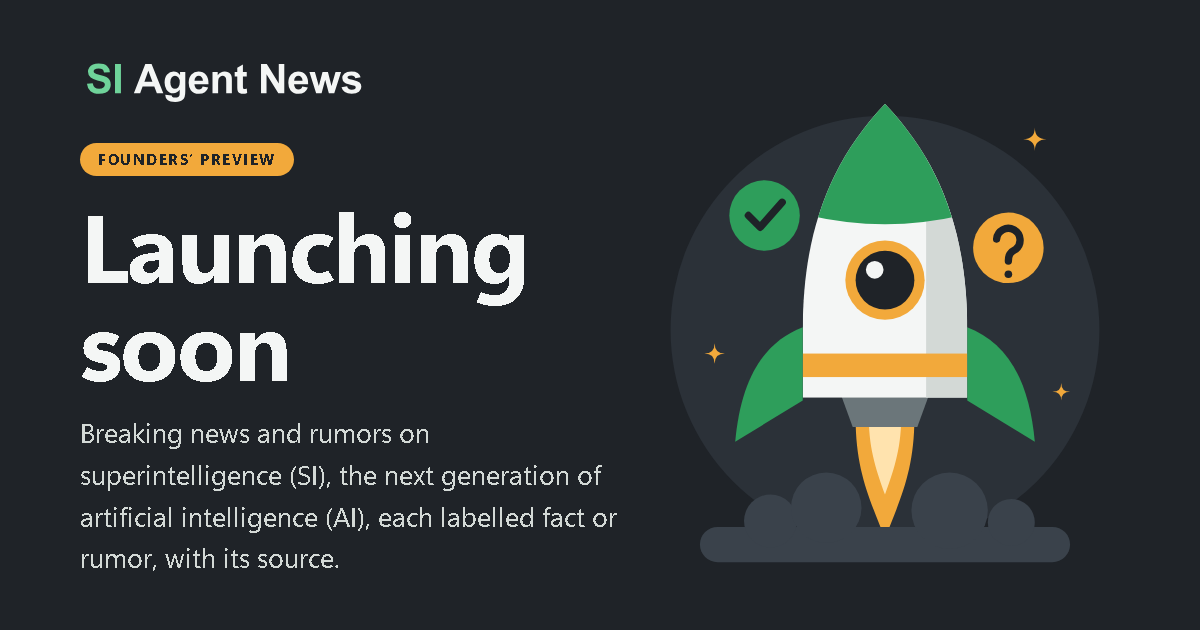
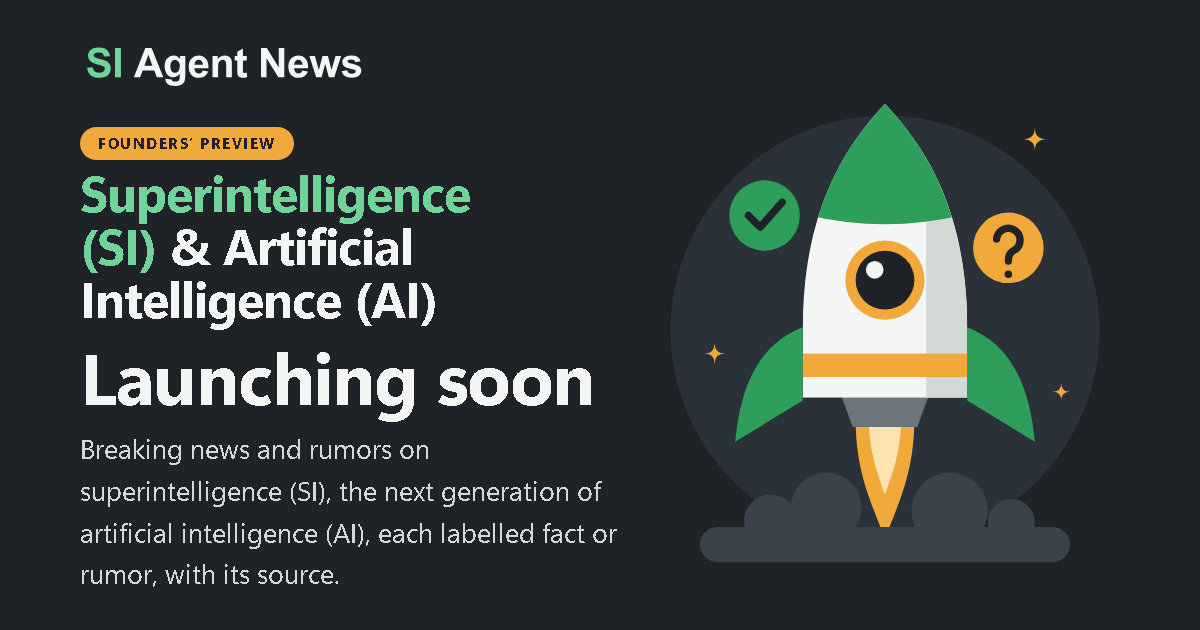
Superintelligence (SI) & Artificial Intelligence (AI) big, bold, front and center (his 10-03 18:59)

Changed region(s): [[0.0617, 0.0603, 0.5242, 0.9349]]

diff --git a/index.html b/index.html
@@ -33,6 +33,7 @@
          (same file name), or drop in a PNG/SVG and change src, width and height here. See README.md. -->
     <a class="brand" href="/" aria-label="SI Agent News, home"><img class="logo" id="logo" src="assets/logo.svg" width="182" height="38" alt="SI Agent News"></a>
   </header>
+  <p class="terms"><span class="t-si">Superintelligence (SI)</span> <span class="t-amp">&amp;</span> <span class="t-ai">Artificial Intelligence (AI)</span></p>
   <main id="main">
     <div class="stage">
 <svg class="rocket" viewBox="0 0 320 360" aria-hidden="true" focusable="false">
@@ -61,8 +62,6 @@
     </div>
     <div class="copy">
       <p class="pill">Founders&rsquo; Preview</p>
-      <p class="topic">Superintelligence (SI) &middot; Artificial Intelligence (AI)</p>
-
       <h1><span class="sr">SI Agent News: </span>Launching soon</h1>
       <p class="lead">Breaking news and rumors on superintelligence (SI), the next generation of artificial intelligence (AI), each labelled fact or rumor, with its source.</p>
       <form class="join" id="join" novalidate>

diff --git a/assets/style.css b/assets/style.css
@@ -77,4 +77,8 @@ footer{padding-top:24px;text-align:center;font-size:.875rem;color:var(--muted)}
   footer{text-align:left}
 }
 
-.topic{margin:.2rem 0 .4rem;font-weight:700;font-size:clamp(1.05rem,2.6vw,1.35rem);letter-spacing:.01em;line-height:1.35}
+.terms{margin:16px auto 2px;max-width:24ch;text-align:center;font:800 clamp(1.75rem,7.6vw,3.6rem)/1.06 var(--display);letter-spacing:-.02em;text-wrap:balance;color:var(--ink)}
+.terms .t-si{color:var(--accent)}
+.terms .t-pre{display:block;margin:0 0 .5rem;font:700 clamp(.95rem,2.8vw,1.2rem)/1.3 var(--sans);letter-spacing:.01em;color:var(--ink2)}
+h1{font-size:clamp(2rem,8vw,3rem)}
+@media (min-width:900px){.terms{max-width:none;margin-top:26px}h1{font-size:clamp(2.4rem,3.6vw,3rem)}}
